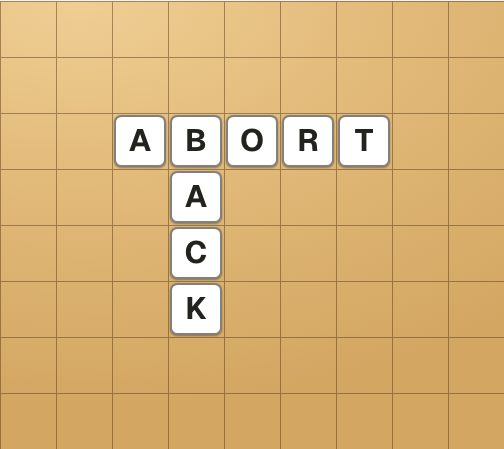
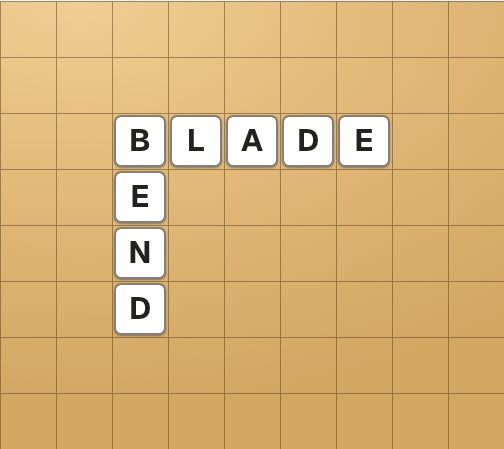
Kumimoji's pictures re-taken for the new tile faces

diff --git a/src/lib/puzzles/puzzleArt.data.ts b/src/lib/puzzles/puzzleArt.data.ts
@@ -7,4 +7,4 @@
  *
  *   pnpm screenshots:puzzles
  */
-export const PUZZLE_ART_FINGERPRINT = "7aea577c4569db8f";
+export const PUZZLE_ART_FINGERPRINT = "2894549bc185213c";
